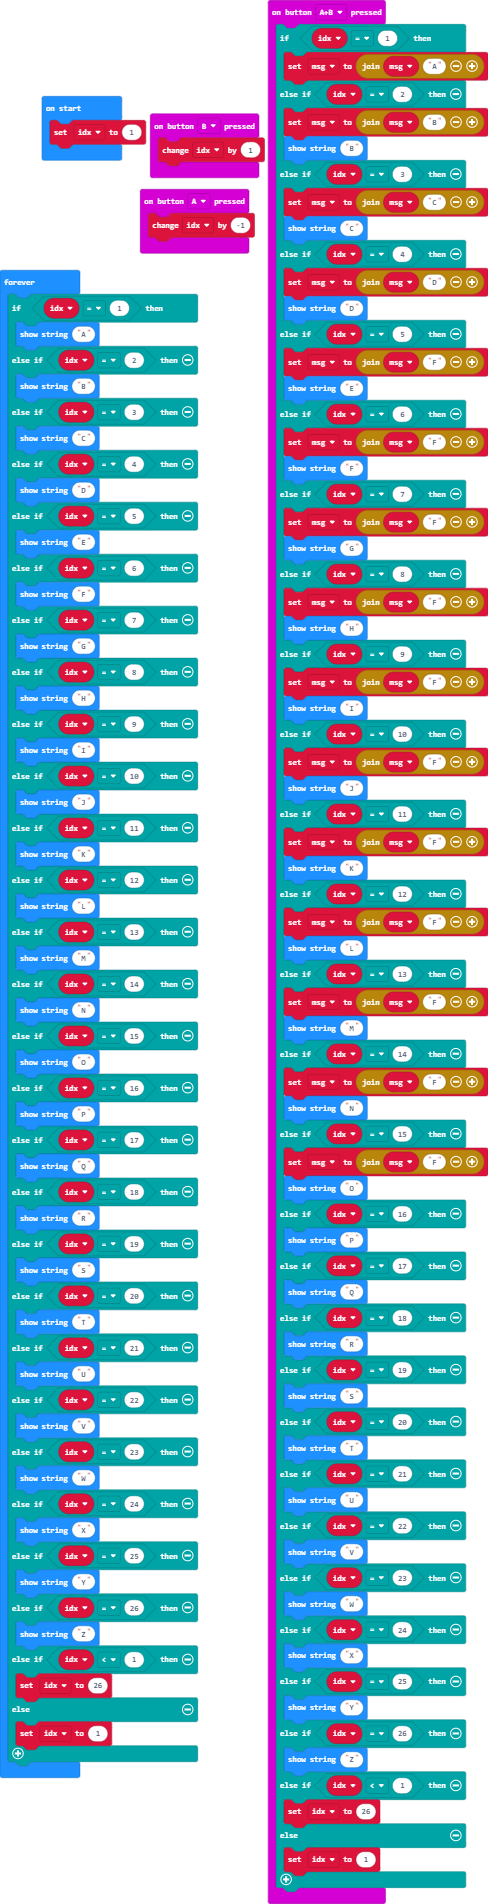
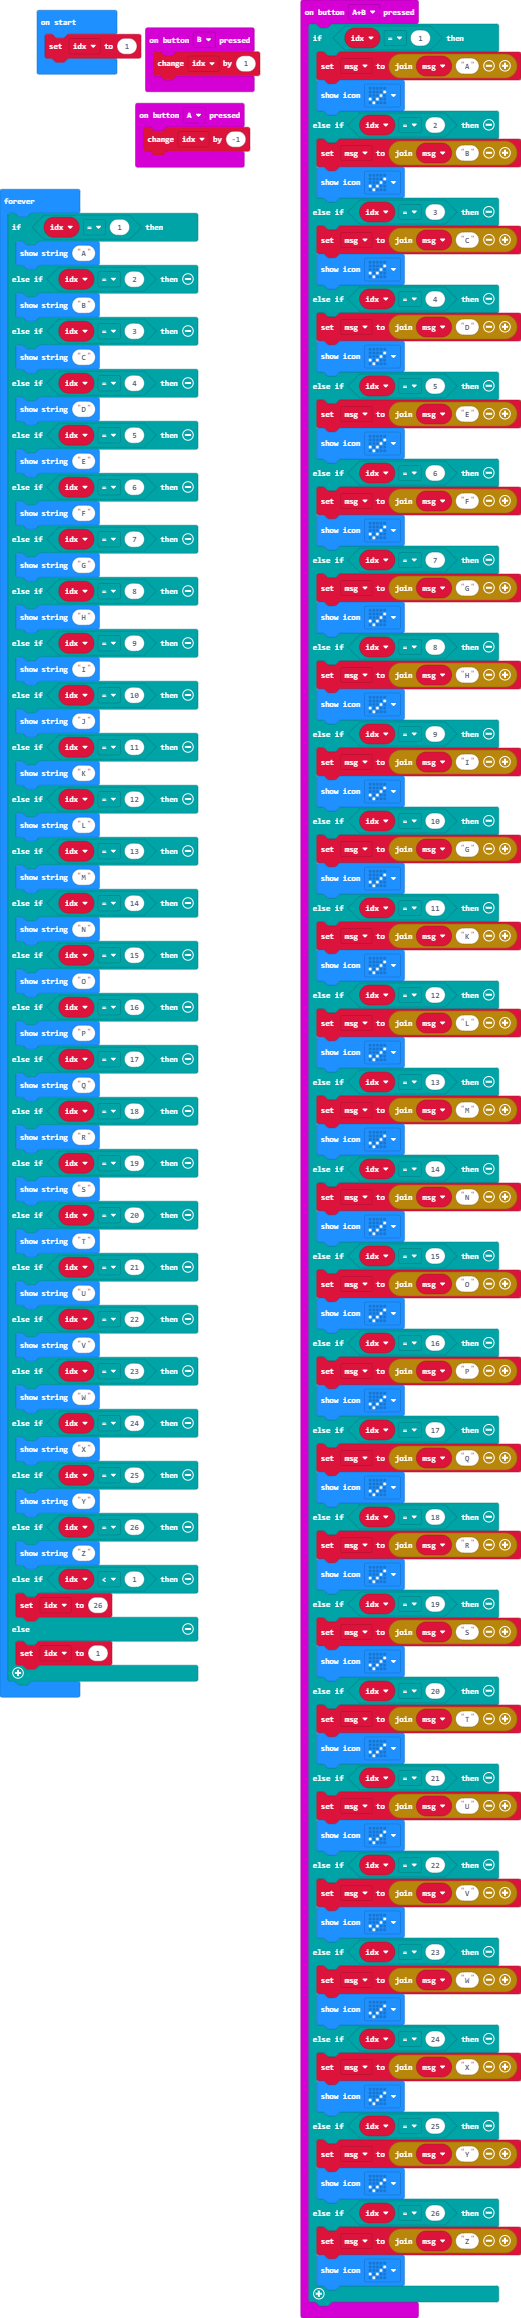
Update main.blocks, main.ts

diff --git a/main.ts b/main.ts
@@ -4,74 +4,82 @@ input.onButtonPressed(Button.A, function () {
 input.onButtonPressed(Button.AB, function () {
     if (idx == 1) {
         msg = "" + msg + "A"
+        basic.showIcon(IconNames.Yes)
     } else if (idx == 2) {
         msg = "" + msg + "B"
-        basic.showString("B")
+        basic.showIcon(IconNames.Yes)
     } else if (idx == 3) {
         msg = "" + msg + "C"
-        basic.showString("C")
+        basic.showIcon(IconNames.Yes)
     } else if (idx == 4) {
         msg = "" + msg + "D"
-        basic.showString("D")
+        basic.showIcon(IconNames.Yes)
     } else if (idx == 5) {
-        msg = "" + msg + "F"
-        basic.showString("E")
+        msg = "" + msg + "E"
+        basic.showIcon(IconNames.Yes)
     } else if (idx == 6) {
         msg = "" + msg + "F"
-        basic.showString("F")
+        basic.showIcon(IconNames.Yes)
     } else if (idx == 7) {
-        msg = "" + msg + "F"
-        basic.showString("G")
+        msg = "" + msg + "G"
+        basic.showIcon(IconNames.Yes)
     } else if (idx == 8) {
-        msg = "" + msg + "F"
-        basic.showString("H")
+        msg = "" + msg + "H"
+        basic.showIcon(IconNames.Yes)
     } else if (idx == 9) {
-        msg = "" + msg + "F"
-        basic.showString("I")
+        msg = "" + msg + "I"
+        basic.showIcon(IconNames.Yes)
     } else if (idx == 10) {
-        msg = "" + msg + "F"
-        basic.showString("J")
+        msg = "" + msg + "G"
+        basic.showIcon(IconNames.Yes)
     } else if (idx == 11) {
-        msg = "" + msg + "F"
-        basic.showString("K")
+        msg = "" + msg + "K"
+        basic.showIcon(IconNames.Yes)
     } else if (idx == 12) {
-        msg = "" + msg + "F"
-        basic.showString("L")
+        msg = "" + msg + "L"
+        basic.showIcon(IconNames.Yes)
     } else if (idx == 13) {
-        msg = "" + msg + "F"
-        basic.showString("M")
+        msg = "" + msg + "M"
+        basic.showIcon(IconNames.Yes)
     } else if (idx == 14) {
-        msg = "" + msg + "F"
-        basic.showString("N")
+        msg = "" + msg + "N"
+        basic.showIcon(IconNames.Yes)
     } else if (idx == 15) {
-        msg = "" + msg + "F"
-        basic.showString("O")
+        msg = "" + msg + "O"
+        basic.showIcon(IconNames.Yes)
     } else if (idx == 16) {
-        basic.showString("P")
+        msg = "" + msg + "P"
+        basic.showIcon(IconNames.Yes)
     } else if (idx == 17) {
-        basic.showString("Q")
+        msg = "" + msg + "Q"
+        basic.showIcon(IconNames.Yes)
     } else if (idx == 18) {
-        basic.showString("R")
+        msg = "" + msg + "R"
+        basic.showIcon(IconNames.Yes)
     } else if (idx == 19) {
-        basic.showString("S")
+        msg = "" + msg + "S"
+        basic.showIcon(IconNames.Yes)
     } else if (idx == 20) {
-        basic.showString("T")
+        msg = "" + msg + "T"
+        basic.showIcon(IconNames.Yes)
     } else if (idx == 21) {
-        basic.showString("U")
+        msg = "" + msg + "U"
+        basic.showIcon(IconNames.Yes)
     } else if (idx == 22) {
-        basic.showString("V")
+        msg = "" + msg + "V"
+        basic.showIcon(IconNames.Yes)
     } else if (idx == 23) {
-        basic.showString("W")
+        msg = "" + msg + "W"
+        basic.showIcon(IconNames.Yes)
     } else if (idx == 24) {
-        basic.showString("X")
+        msg = "" + msg + "X"
+        basic.showIcon(IconNames.Yes)
     } else if (idx == 25) {
-        basic.showString("Y")
+        msg = "" + msg + "Y"
+        basic.showIcon(IconNames.Yes)
     } else if (idx == 26) {
-        basic.showString("Z")
-    } else if (idx < 1) {
-        idx = 26
-    } else {
-        idx = 1
+        msg = "" + msg + "Z"
+        basic.showIcon(IconNames.Yes)
     }
 })
 input.onButtonPressed(Button.B, function () {
